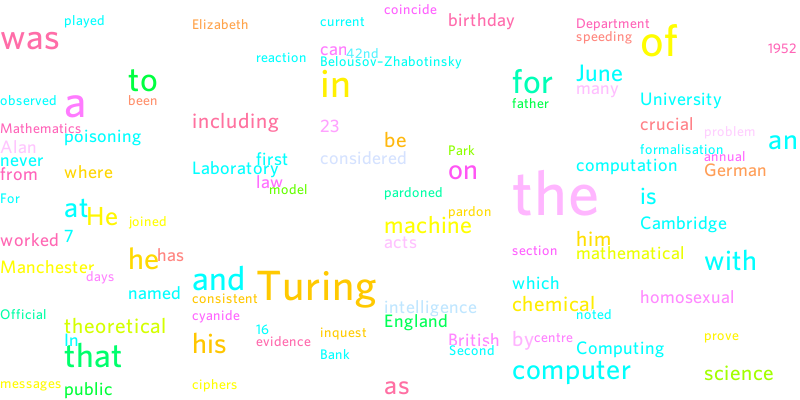
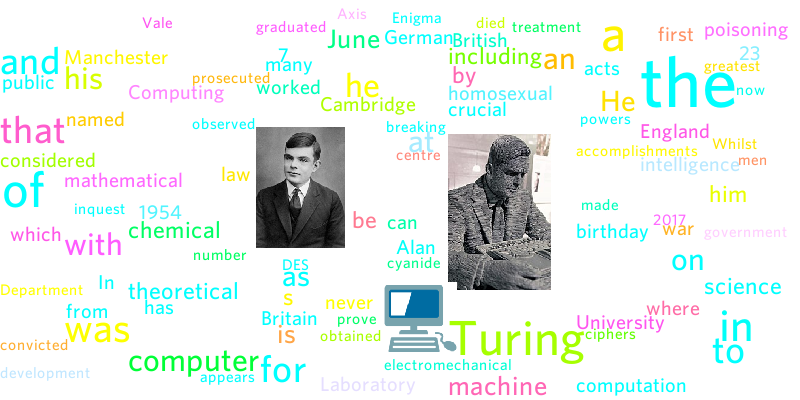
improved demo, broke regularities induced by u64 bitmap storage, fix jpg

Changed region(s): [[0.0, 0.0, 1.0, 0.99], [0.875, 0.78, 0.9688, 0.96], [0.1875, 0.03, 0.2188, 0.09]]

diff --git a/src/lib.rs b/src/lib.rs
@@ -18,11 +18,17 @@ mod tests {
     use std::collections::HashMap;
     use std::fs;
     use super::*;
+    use lazy_static::lazy_static;
+    use regex::Regex;
+
+    lazy_static! {
+        static ref RE_TOKEN: Regex = Regex::new(r"\w+").unwrap();
+    }
 
     fn tokenize(text: String) -> Vec<(Token, f32)> {
         let mut counts: HashMap<String, usize> = HashMap::new();
-        for token in text.replace(&['.', ',', '"', '\''], "").split_whitespace() {
-            *counts.entry(token.to_string()).or_default() += 1;
+        for token in RE_TOKEN.find_iter(&text) {
+            *counts.entry(token.as_str().to_string()).or_default() += 1;
         }
         counts.into_iter().map(|(k, v)| (Token::Text(k), v as f32)).collect()
     }
@@ -30,7 +36,11 @@ mod tests {
     #[test]
     fn it_works() {
         let text = fs::read_to_string("assets/sample_text.txt").unwrap();
-        let wc = WordCloud::new().generate(tokenize(text));
+        let mut tokens = tokenize(text);
+        tokens.push((Token::Img("assets/alan_turing.jpg".to_string()), 60.));
+        tokens.push((Token::Img("assets/turing_statue_bletchley.jpg".to_string()), 80.));
+        tokens.push((Token::Img("assets/computer_emoji.png".to_string()), 40.));
+        let wc = WordCloud::new().generate(tokens);
         wc.save("sample_cloud.png").unwrap();
     }
 }

diff --git a/src/text.rs b/src/text.rs
@@ -1,5 +1,5 @@
 use fontdue::{Font, layout::{Layout, CoordinateSystem, TextStyle}, Metrics};
-use image::{RgbaImage, GenericImage, Rgba};
+use image::{RgbaImage, GenericImage, Rgba, Pixel, GenericImageView};
 use itertools::enumerate;
 use super::{hxbitmap::{HXBitmap}, rasterisable::Rasterisable, indexed_chars::IndexedChars};
 use std::{iter::zip, fmt::Display};
@@ -55,11 +55,13 @@ impl Rasterisable for Text {
             let y = pos.1 as u32 + dpos.y as u32;
             let mut subimg = image.sub_image(x, y, metrics.width as u32, metrics.height as u32);
             for (i, value) in enumerate(char_bitmap) {
-                let dx = i % metrics.width;
-                let dy = i / metrics.width;
+                let dx = (i % metrics.width) as u32;
+                let dy = (i / metrics.width) as u32;
                 let mut color = self.color.clone();
                 color.0[3] = (color.0[3] as f32*(*value as f32)/255.) as u8;
-                subimg.put_pixel(dx as u32, dy as u32, color);
+                let mut pixel = subimg.get_pixel(dx, dy);
+                pixel.blend(&color);
+                subimg.put_pixel(dx, dy, pixel);
             }
         }
     }

diff --git a/src/image.rs b/src/image.rs
@@ -27,8 +27,12 @@ impl Display for Image {
 impl Rasterisable for Image {
     fn to_bitmap(&self) -> HXBitmap {
         let mut bitmap = HXBitmap::new(self.image.width() as usize, self.image.height() as usize);
-        let alphas = self.image.as_bytes().iter().skip(3).step_by(4).cloned().collect_vec();
-        bitmap.add_bitmap(self.image.width() as usize, &alphas, 0, 0);
+        let values = if self.image.color().has_alpha() {
+            self.image.as_bytes().iter().skip(3).step_by(4).cloned().collect_vec()
+        } else {
+            vec![255; (self.image.width()*self.image.height()) as usize]
+        };
+        bitmap.add_bitmap(self.image.width() as usize, &values, 0, 0);
         bitmap
     }
 

diff --git a/src/hxbitmap.rs b/src/hxbitmap.rs
@@ -108,10 +108,11 @@ impl HXBitmap {
                 "Bitmap: Can't fit {:?} into {:?}", (other.width, other.height), (self.width, self.height)
             ));
         }
-        let others = other.h_offsets();
+        let mut others: Vec<_> = enumerate(other.h_offsets()).collect();
+        others.shuffle(&mut thread_rng());
         while let Some((vec_x, y)) = self.poses.next() {
             if y+other.height < self.height {
-                for (dx, other) in enumerate(&others) {
+                for (dx, other) in &others {
                     if vec_x*usize::BITS as usize+dx+other.width >= self.width {
                         break;
                     }

diff --git a/src/builder.rs b/src/builder.rs
@@ -6,8 +6,8 @@ use super::{colors::{Colors, ColorScheme, ColorGen}, Token, wordcloud::WorldClou
 
 fn size_factor(dim: (usize, usize), tokens: &Vec<(Token, f32)>) -> f32 {
     let sum = tokens.iter().fold(0., |i, (_, s)| i+s);
-    // magical formula that seem to work well ¯\_(ツ)_/¯
-    (tokens.len() as f32).log(10.)*dim.0 as f32/sum
+    // magical formula that seems to work well ¯\_(ツ)_/¯
+    1.3*(tokens.len() as f32).log(10.)*dim.0 as f32/sum
 }
 
 fn wordcloud(font: &Font, dim: (usize, usize), mut tokens: Vec<(Token, f32)>, colors: &mut Colors) -> RgbaImage {
